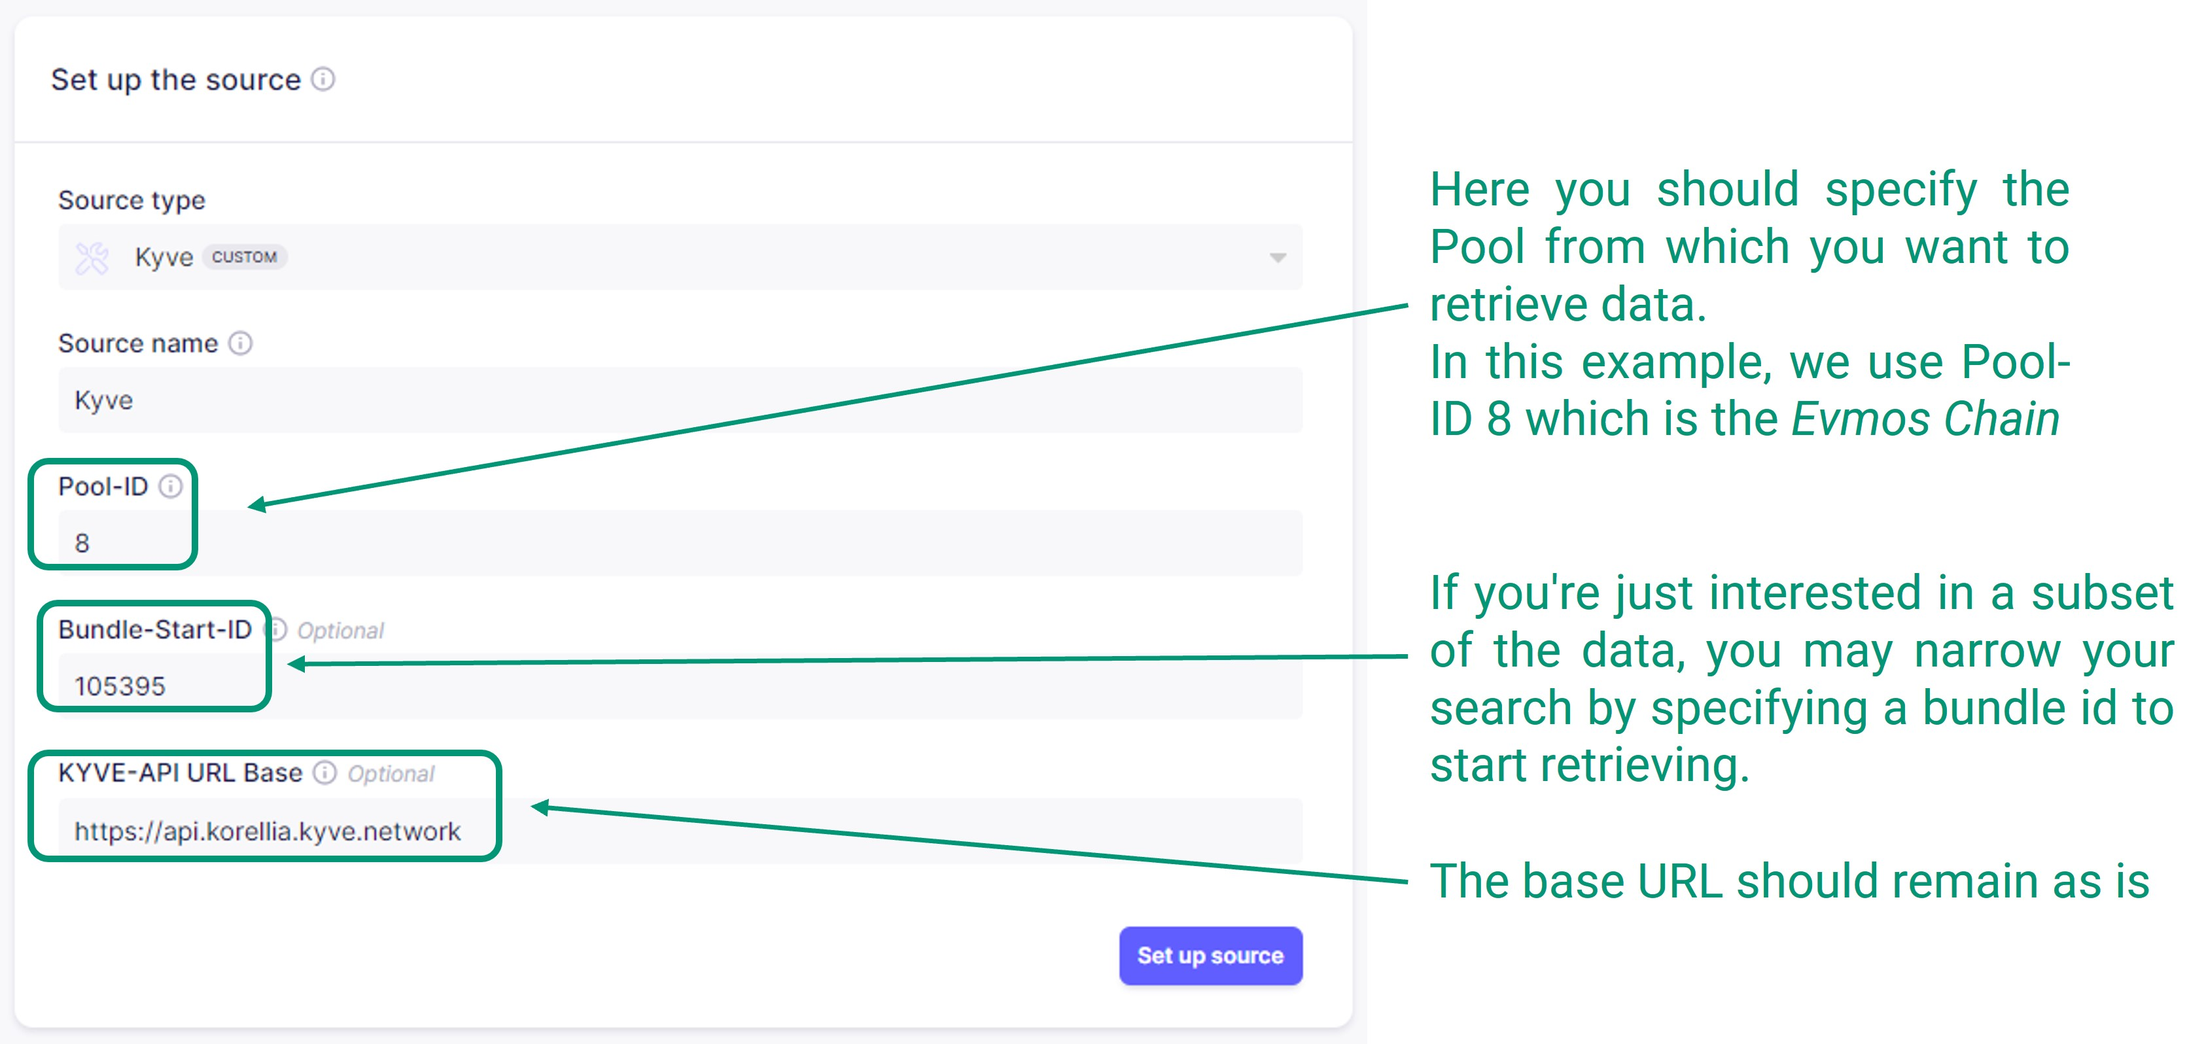
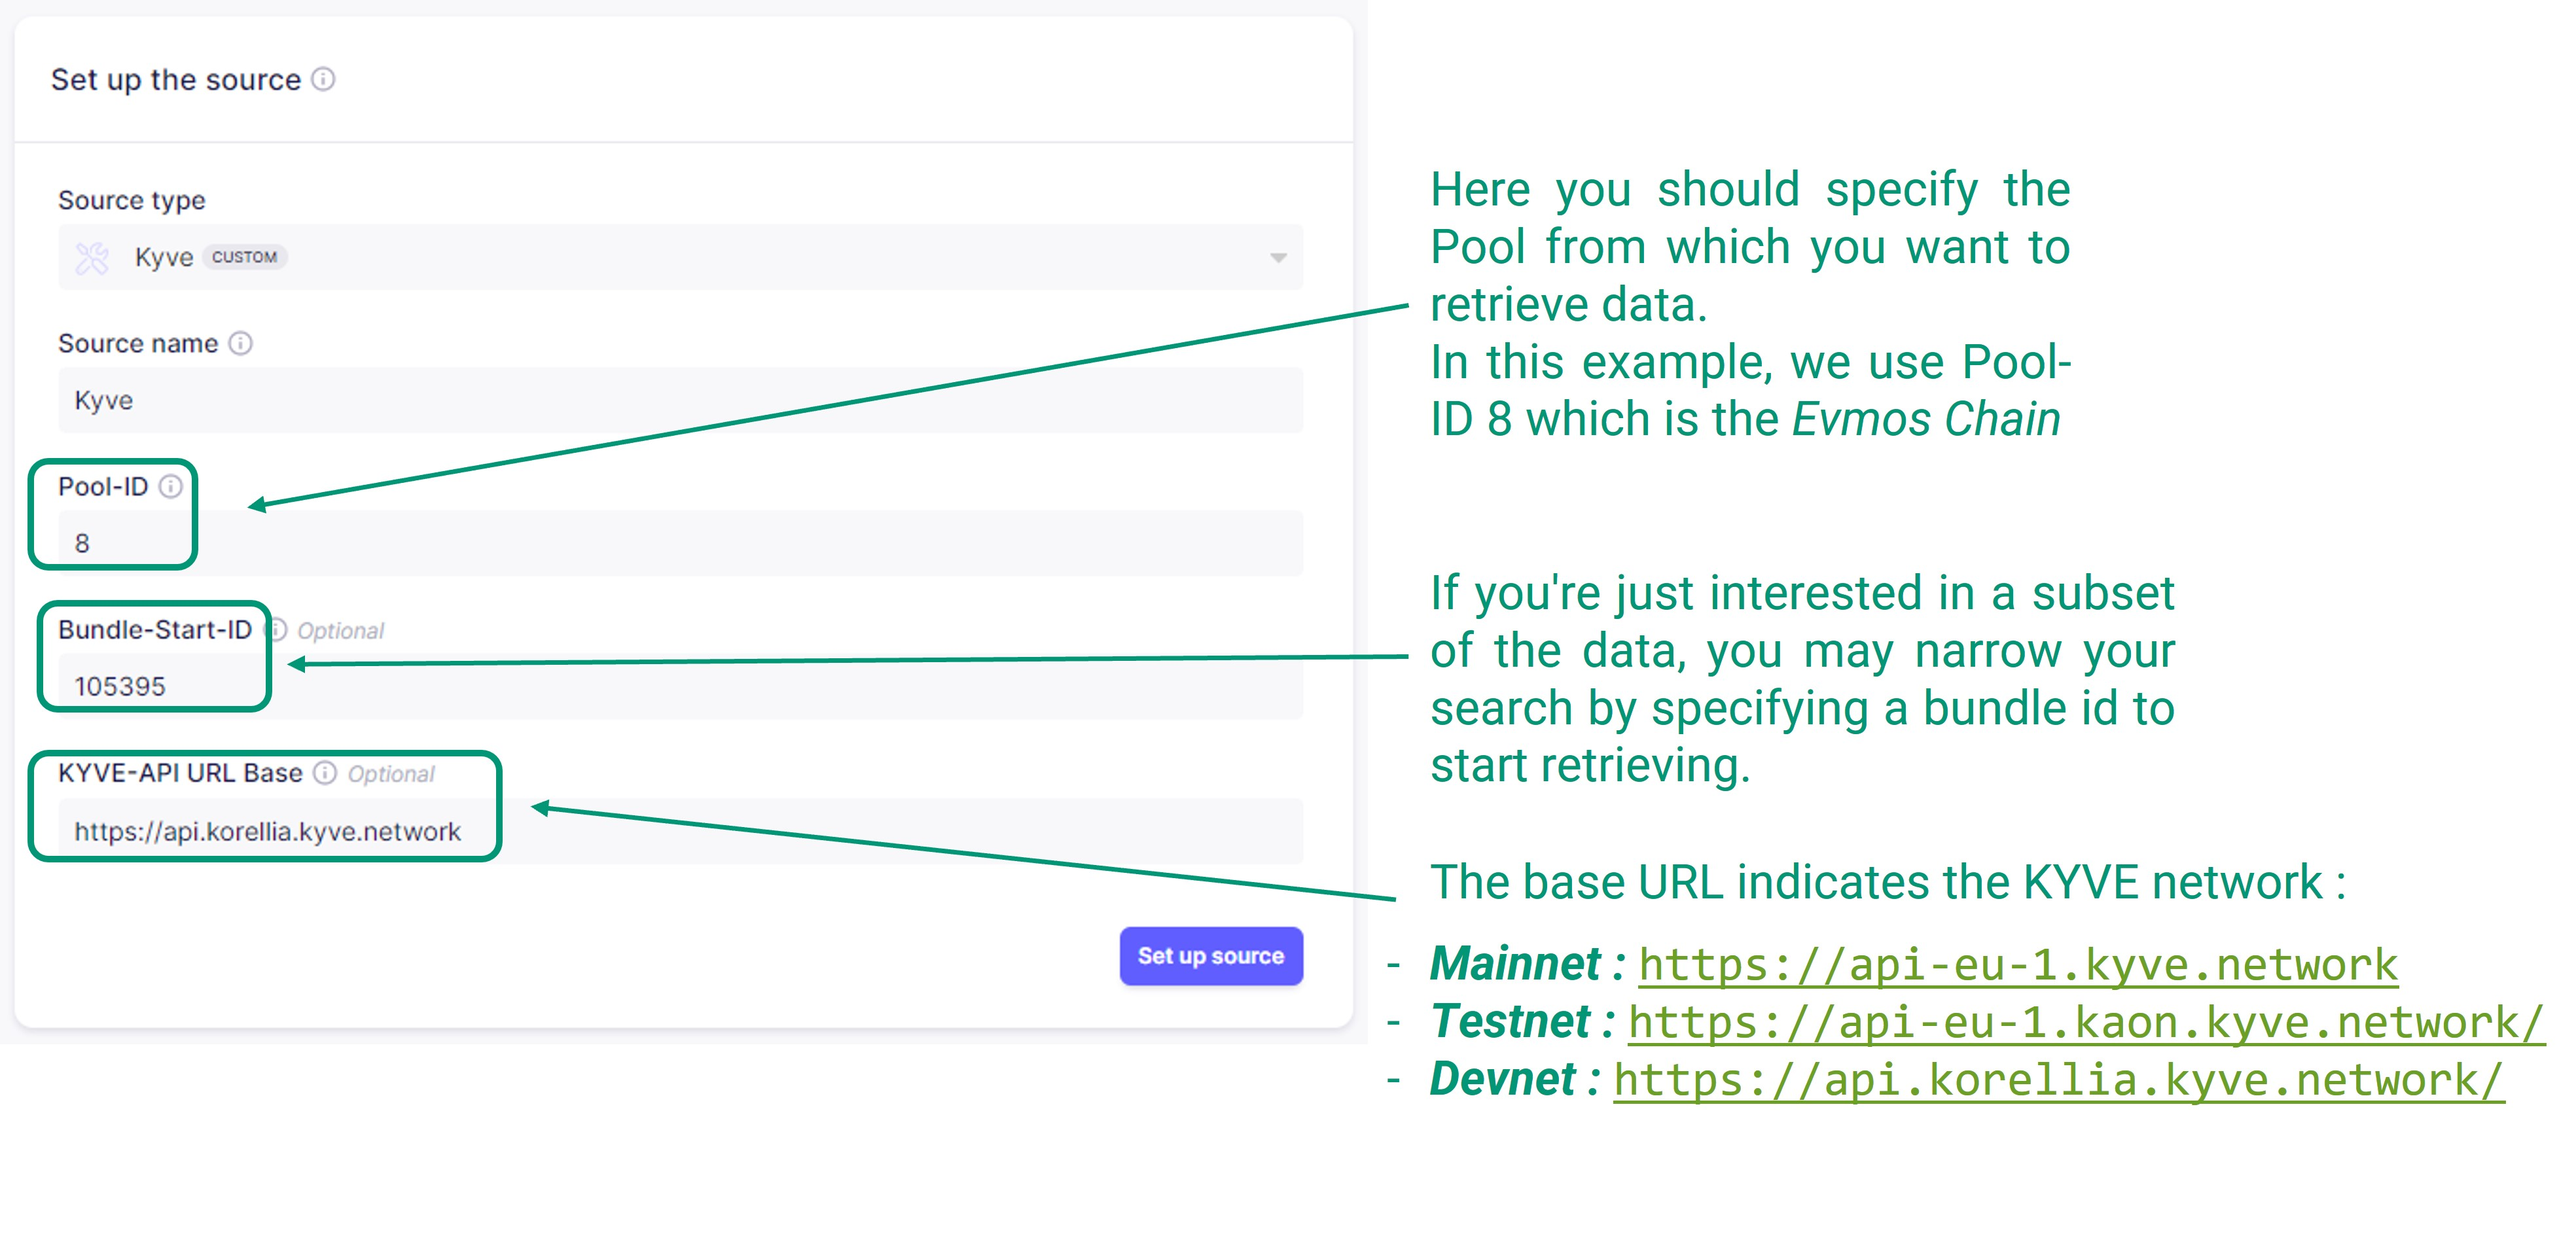
doc: add network urls in airbyte source setup

diff --git a/docs/data_engineers/accessing_data/elt_pipeline/elt_destinations/postgres.md b/docs/data_engineers/accessing_data/elt_pipeline/elt_destinations/postgres.md
@@ -85,7 +85,10 @@ Now you're ready to create the connection in Airbyte (<http://localhost:8000/>).
     - **Source Name**: KYVE
     - **Pool-IDs**: `8`
     - **Bundle-Start-IDs**: `105395`
-    - **KYVE-API URL Base**: *This should remain as is*.
+    - **KYVE-API URL Base**: The base URL indicates the KYVE network
+      1. `Mainnet` : https://api-eu-1.kyve.network
+      2. `Testnet` : https://api-eu-1.kaon.kyve.network/
+      3. `Devnet` : https://api.korellia.kyve.network/ 
 
    <br></br>
    <img src="/img/elt/airbyte_kyve_source.jpg" alt="Airbyte set up source" />

diff --git a/docs/data_engineers/accessing_data/elt_pipeline/elt_destinations/snowflake.md b/docs/data_engineers/accessing_data/elt_pipeline/elt_destinations/snowflake.md
@@ -165,7 +165,10 @@ connection.
 
     - **Pool-ID**: `8` which refers to the [Evmos chain](https://app.kyve.network/#/pools/8/bundles).
     - **Bundle-Start-ID**: `105395` (or choose another `Bundle-Start-ID`)
-    - **KYVE-API URL Base**: *This should remain as is*.
+    - **KYVE-API URL Base**: The base URL indicates the KYVE network
+      1. `Mainnet` : https://api-eu-1.kyve.network
+      2. `Testnet` : https://api-eu-1.kaon.kyve.network/
+      3. `Devnet` : https://api.korellia.kyve.network/ 
 
    <br></br>
 
